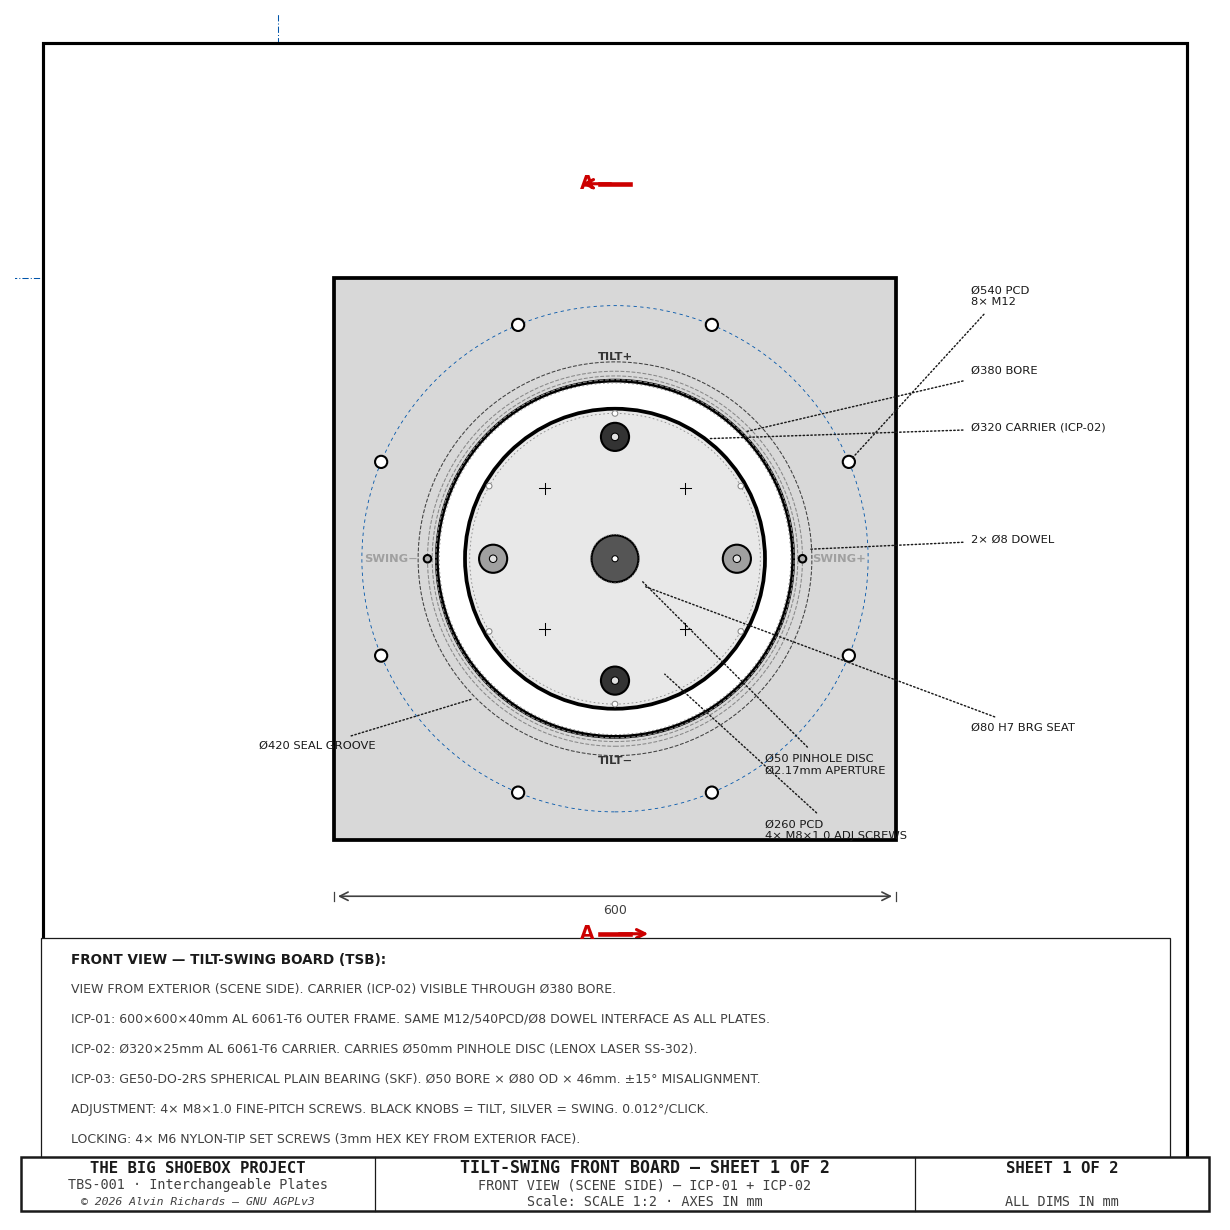
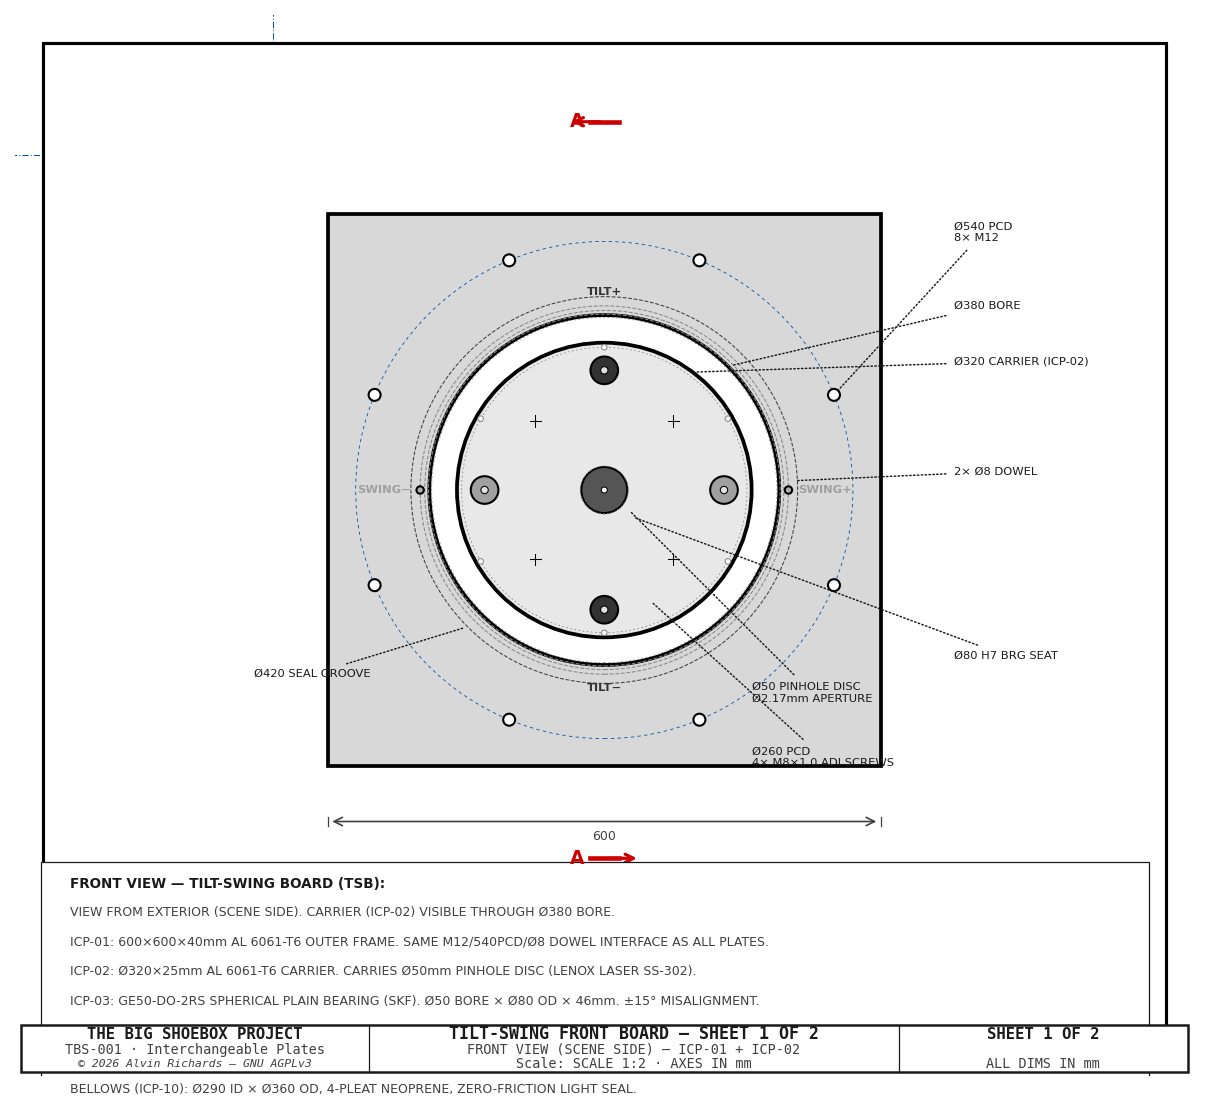
Tilt-swing sheet 1: reduce height another 10% (8→7.2 in)

diff --git a/generate_tilt_swing_diagram.py b/generate_tilt_swing_diagram.py
@@ -93,7 +93,7 @@ C_BALL  = '#E0E0E0'
 def draw_sheet1():
     """Sheet 1: Front view of TSB assembly at 1:2 scale."""
     SC = 2.0
-    fig_w, fig_h = 8, 8
+    fig_w, fig_h = 8, 7.2
     fig, ax = plt.subplots(figsize=(fig_w, fig_h))
     fig.patch.set_facecolor('white')
     ax.set_facecolor('white')
